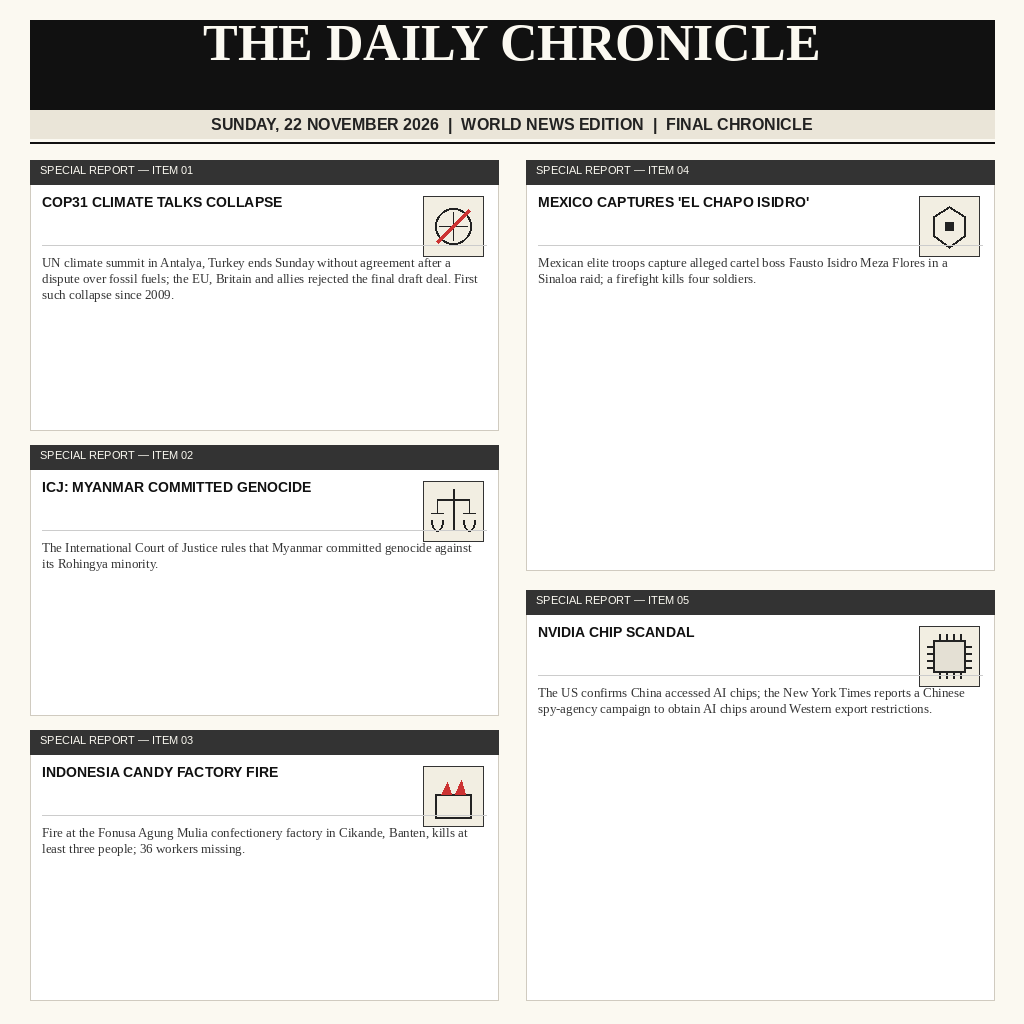
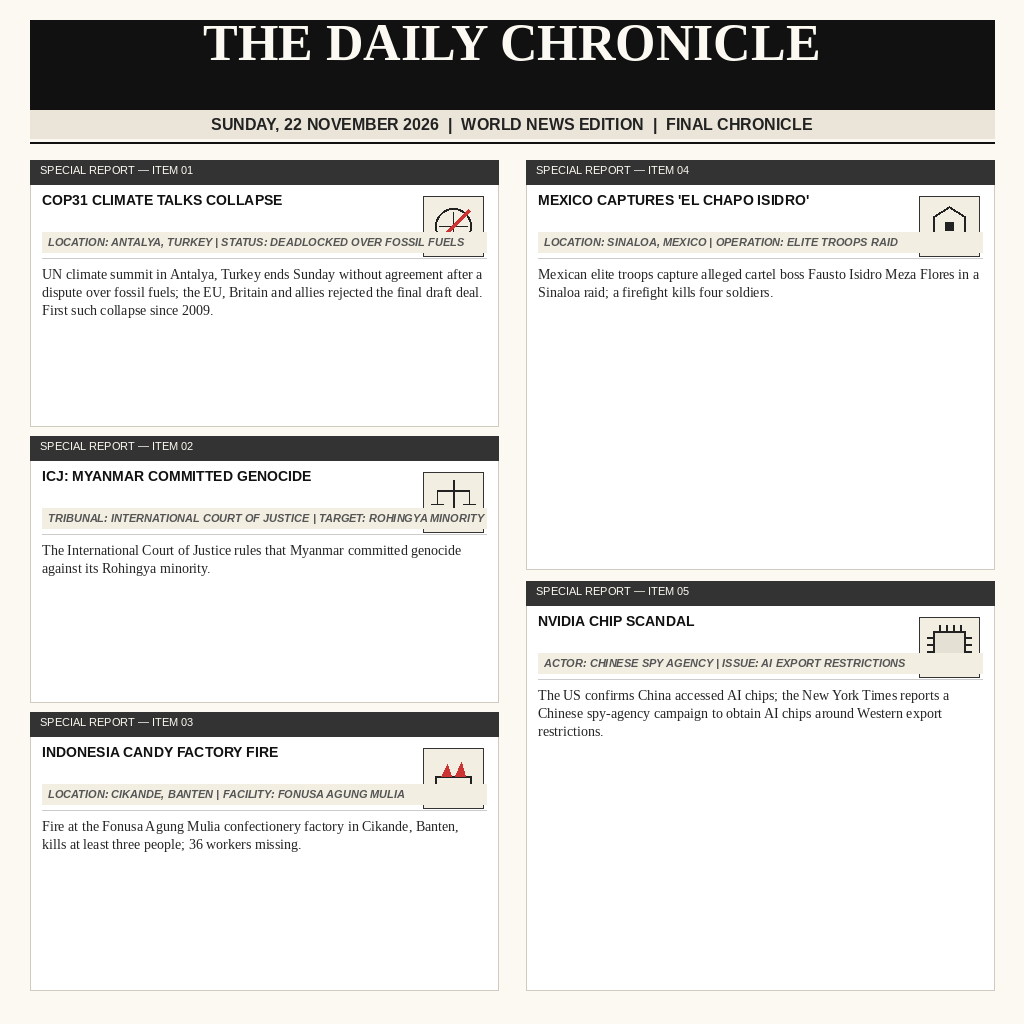
Add files via upload

diff --git a/main.ts b/main.ts
@@ -1,11 +1,20 @@
-// A working news-image-daily entry (Node 22, standard library only): its image is the entry.png beside this file, and
-// the program copies it to /output/entry.png. A starting point, not a winner: replace the image. The gate takes a
-// whole PNG or JPEG of at most 1 MiB and 1024 by 1024 pixels, and the judge sees exactly the bytes copied.
-//
-// Outside the grader's container, MAKEFUN_OUTPUT_DIR stands in for /output:
-//   mkdir -p out && MAKEFUN_OUTPUT_DIR=out node main.ts
+/**
+ * THE DAILY CHRONICLE - Sunday, 22 November 2026 World News Edition
+ * Copies the generated front-page entry.png to the target output directory
+ * (MAKEFUN_OUTPUT_DIR or /output), with an existence guard.
+ */
 
-import { copyFileSync } from 'node:fs';
+import { copyFileSync, existsSync } from 'node:fs';
 import { join } from 'node:path';
 
-copyFileSync(new URL('./entry.png', import.meta.url), join(process.env.MAKEFUN_OUTPUT_DIR ?? '/output', 'entry.png'));
+const srcPath = new URL('./entry.png', import.meta.url);
+const destDir = process.env.MAKEFUN_OUTPUT_DIR ?? '/output';
+const destPath = join(destDir, 'entry.png');
+
+if (!existsSync(srcPath)) {
+  console.error(`Error: entry.png not found at ${srcPath.pathname}`);
+  process.exit(1);
+}
+
+copyFileSync(srcPath, destPath);
+console.log(`Successfully copied entry.png to ${destPath}`);

diff --git a/generate_image.py b/generate_image.py
@@ -12,7 +12,8 @@ try:
     subtitle_font = ImageFont.truetype("/usr/share/fonts/truetype/liberation/LiberationSans-Bold.ttf", 16)
     section_font = ImageFont.truetype("/usr/share/fonts/truetype/liberation/LiberationSerif-Bold.ttf", 18)
     h_font = ImageFont.truetype("/usr/share/fonts/truetype/liberation/LiberationSans-Bold.ttf", 14)
-    body_font = ImageFont.truetype("/usr/share/fonts/truetype/liberation/LiberationSerif-Regular.ttf", 13)
+    body_font = ImageFont.truetype("/usr/share/fonts/truetype/liberation/LiberationSerif-Regular.ttf", 14)
+    fact_font = ImageFont.truetype("/usr/share/fonts/truetype/liberation/LiberationSans-BoldItalic.ttf", 11)
     small_font = ImageFont.truetype("/usr/share/fonts/truetype/liberation/LiberationSans-Regular.ttf", 11)
 except Exception:
     title_font = ImageFont.load_default()
@@ -20,6 +21,7 @@ except Exception:
     section_font = ImageFont.load_default()
     h_font = ImageFont.load_default()
     body_font = ImageFont.load_default()
+    fact_font = ImageFont.load_default()
     small_font = ImageFont.load_default()
 
 # Draw Header Box / Masthead
@@ -39,7 +41,6 @@ def wrap_text(text, font, max_width):
     current_line = ""
     for word in words:
         test_line = current_line + " " + word if current_line else word
-        # Use getlength if available, else textbbox
         try:
             w = font.getlength(test_line)
         except AttributeError:
@@ -55,57 +56,55 @@ def wrap_text(text, font, max_width):
         lines.append(current_line)
     return lines
 
-# Layout: 2 Columns for the 5 stories
-# Col 1: Left X: 30 to 500. Col 2: Right X: 524 to 994.
-# Y starts at 160.
-
-# We have 5 stories:
+# 5 Verified Stories with Fact Strips
 stories = [
     {
         "num": "01",
         "title": "COP31 CLIMATE TALKS COLLAPSE",
+        "fact": "LOCATION: ANTALYA, TURKEY | STATUS: DEADLOCKED OVER FOSSIL FUELS",
         "summary": "UN climate summit in Antalya, Turkey ends Sunday without agreement after a dispute over fossil fuels; the EU, Britain and allies rejected the final draft deal. First such collapse since 2009.",
         "icon": "climate"
     },
     {
         "num": "02",
         "title": "ICJ: MYANMAR COMMITTED GENOCIDE",
+        "fact": "TRIBUNAL: INTERNATIONAL COURT OF JUSTICE | TARGET: ROHINGYA MINORITY",
         "summary": "The International Court of Justice rules that Myanmar committed genocide against its Rohingya minority.",
         "icon": "icj"
     },
     {
         "num": "03",
         "title": "INDONESIA CANDY FACTORY FIRE",
+        "fact": "LOCATION: CIKANDE, BANTEN | FACILITY: FONUSA AGUNG MULIA",
         "summary": "Fire at the Fonusa Agung Mulia confectionery factory in Cikande, Banten, kills at least three people; 36 workers missing.",
         "icon": "fire"
     },
     {
         "num": "04",
         "title": "MEXICO CAPTURES 'EL CHAPO ISIDRO'",
+        "fact": "LOCATION: SINALOA, MEXICO | OPERATION: ELITE TROOPS RAID",
         "summary": "Mexican elite troops capture alleged cartel boss Fausto Isidro Meza Flores in a Sinaloa raid; a firefight kills four soldiers.",
         "icon": "mexico"
     },
     {
         "num": "05",
         "title": "NVIDIA CHIP SCANDAL",
+        "fact": "ACTOR: CHINESE SPY AGENCY | ISSUE: AI EXPORT RESTRICTIONS",
         "summary": "The US confirms China accessed AI chips; the New York Times reports a Chinese spy-agency campaign to obtain AI chips around Western export restrictions.",
         "icon": "chip"
     }
 ]
 
 def draw_icon(draw, type_str, x, y, size=60):
-    # Draw background box for illustration
     draw.rectangle([x, y, x+size, y+size], outline="#333333", width=1, fill="#F2EEE2")
     cx, cy = x + size//2, y + size//2
     
     if type_str == "climate":
-        # Globe & broken line
         draw.ellipse([cx-18, cy-18, cx+18, cy+18], outline="#222222", width=2)
         draw.line([cx-14, cy, cx+14, cy], fill="#222222", width=1)
         draw.line([cx, cy-14, cx, cy+14], fill="#222222", width=1)
         draw.line([cx-16, cy+16, cx+16, cy-16], fill="#CC3333", width=3)
     elif type_str == "icj":
-        # Scales of justice
         draw.line([cx, cy-22, cx, cy+18], fill="#222222", width=2)
         draw.line([cx-16, cy-12, cx+16, cy-12], fill="#222222", width=2)
         draw.arc([cx-22, cy-2, cx-10, cy+20], 0, 180, fill="#222222", width=2)
@@ -115,78 +114,64 @@ def draw_icon(draw, type_str, x, y, size=60):
         draw.line([cx+16, cy-12, cx+16, cy+2], fill="#222222", width=1)
         draw.line([cx+10, cy+2, cx+22, cy+2], fill="#222222", width=1)
     elif type_str == "fire":
-        # Factory & smoke/flame
         draw.rectangle([cx-18, cy-2, cx+18, cy+22], outline="#222222", width=2)
         draw.polygon([(cx-12, cy-2), (cx-6, cy-14), (cx-2, cy-2)], fill="#CC3333")
         draw.polygon([(cx+2, cy-2), (cx+8, cy-16), (cx+12, cy-2)], fill="#CC3333")
     elif type_str == "mexico":
-        # Shield / star
         draw.polygon([(cx, cy-20), (cx+16, cy-10), (cx+16, cy+10), (cx, cy+22), (cx-16, cy+10), (cx-16, cy-10)], outline="#222222", width=2)
         draw.rectangle([cx-4, cy-4, cx+4, cy+4], fill="#222222")
     elif type_str == "chip":
-        # Microprocessor chip
         draw.rectangle([cx-16, cy-16, cx+16, cy+16], outline="#222222", width=2, fill="#E4E0D4")
-        # Pins
         for p in [-10, -3, 4, 11]:
             draw.line([cx+p, cy-22, cx+p, cy-16], fill="#222222", width=2)
             draw.line([cx+p, cy+16, cx+p, cy+22], fill="#222222", width=2)
             draw.line([cx-22, cy+p, cx-16, cy+p], fill="#222222", width=2)
             draw.line([cx+16, cy+p, cx+22, cy+p], fill="#222222", width=2)
 
-# Coordinates for 5 stories
-# Let's do 2 columns:
-# Left column: stories 0, 1, 2
-# Right column: stories 3, 4
-
 col_w = 468
 left_x = 30
 right_x = 526
 
-# We can position each story block cleanly
-# Box heights ~ 270px each
-y_positions_left = [160, 445, 730]
-y_positions_right = [160, 500] # Right side has 2 major stories with deep coverage
-
-# Story 0, 1, 2 on left
-# Story 3, 4 on right
-
-def render_story(draw, story, x, y, w):
-    # Outer box for story
-    draw.rectangle([x, y, x+w, y+270], outline="#D0CBC0", width=1, fill="#FFFFFF")
+def render_story(draw, story, x, y, w, h):
+    draw.rectangle([x, y, x+w, y+h], outline="#D0CBC0", width=1, fill="#FFFFFF")
     
     # Story number & category bar
     draw.rectangle([x, y, x+w, y+24], fill="#333333")
     header_str = f"SPECIAL REPORT — ITEM {story['num']}"
     draw.text((x+10, y+4), header_str, fill="#FBF9F1", font=small_font)
     
-    # Icon on top right of box
+    # Icon
     draw_icon(draw, story["icon"], x + w - 75, y + 36, size=60)
     
     # Headline
     hx = x + 12
-    hy = y + 34
+    hy = y + 32
     hw_max = w - 95
     h_lines = wrap_text(story["title"], h_font, hw_max)
     for i, line in enumerate(h_lines[:2]):
-        draw.text((hx, hy + i*18), line, fill="#111111", font=h_font)
+        draw.text((hx, hy + i*17), line, fill="#111111", font=h_font)
+    
+    # Fact strip background bar
+    draw.rectangle([x+12, y+72, x+w-12, y+92], fill="#F2EEE2")
+    draw.text((x+18, y+76), story["fact"], fill="#555555", font=fact_font)
     
     # Divider line
-    draw.line([x+12, y+85, x+w-12, y+85], fill="#CCCCCC", width=1)
+    draw.line([x+12, y+98, x+w-12, y+98], fill="#CCCCCC", width=1)
     
-    # Summary paragraph
+    # Summary paragraph with slightly larger font & tighter line spacing
     sx = x + 12
-    sy = y + 95
+    sy = y + 106
     sw_max = w - 24
     body_lines = wrap_text(story["summary"], body_font, sw_max)
-    for i, line in enumerate(body_lines[:8]):
-        draw.text((sx, sy + i*16), line, fill="#333333", font=body_font)
+    for i, line in enumerate(body_lines[:10]):
+        draw.text((sx, sy + i*18), line, fill="#222222", font=body_font)
 
-# Render Left Column (Stories 0, 1, 2)
-render_story(draw, stories[0], left_x, 160, col_w)
-render_story(draw, stories[1], left_x, 445, col_w)
-render_story(draw, stories[2], left_x, 730, col_w)
+# Render Left Column (3 stories: height ~ 266 each)
+render_story(draw, stories[0], left_x, 160, col_w, 266)
+render_story(draw, stories[1], left_x, 436, col_w, 266)
+render_story(draw, stories[2], left_x, 712, col_w, 278)
 
-# Render Right Column (Stories 3, 4) - make them taller/deeper since there are 2
+# Render Right Column (2 taller stories: height ~ 409 each)
 def render_story_tall(draw, story, x, y, w, h):
     draw.rectangle([x, y, x+w, y+h], outline="#D0CBC0", width=1, fill="#FFFFFF")
     
@@ -197,25 +182,28 @@ def render_story_tall(draw, story, x, y, w, h):
     draw_icon(draw, story["icon"], x + w - 75, y + 36, size=60)
     
     hx = x + 12
-    hy = y + 34
+    hy = y + 32
     hw_max = w - 95
     h_lines = wrap_text(story["title"], h_font, hw_max)
     for i, line in enumerate(h_lines[:2]):
-        draw.text((hx, hy + i*18), line, fill="#111111", font=h_font)
+        draw.text((hx, hy + i*17), line, fill="#111111", font=h_font)
     
-    draw.line([x+12, y+85, x+w-12, y+85], fill="#CCCCCC", width=1)
+    draw.rectangle([x+12, y+72, x+w-12, y+92], fill="#F2EEE2")
+    draw.text((x+18, y+76), story["fact"], fill="#555555", font=fact_font)
+    
+    draw.line([x+12, y+98, x+w-12, y+98], fill="#CCCCCC", width=1)
     
     sx = x + 12
-    sy = y + 95
+    sy = y + 106
     sw_max = w - 24
     body_lines = wrap_text(story["summary"], body_font, sw_max)
-    for i, line in enumerate(body_lines[:12]):
-        draw.text((sx, sy + i*16), line, fill="#333333", font=body_font)
+    for i, line in enumerate(body_lines[:15]):
+        draw.text((sx, sy + i*18), line, fill="#222222", font=body_font)
 
-render_story_tall(draw, stories[3], right_x, 160, col_w, 410)
-render_story_tall(draw, stories[4], right_x, 590, col_w, 410)
+render_story_tall(draw, stories[3], right_x, 160, col_w, 409)
+render_story_tall(draw, stories[4], right_x, 581, col_w, 409)
 
 # Save image as entry.png
 output_path = "entry.png"
 image.save(output_path, "PNG")
-print(f"Successfully generated {output_path}")
+print(f"Successfully generated denser layout {output_path}")
